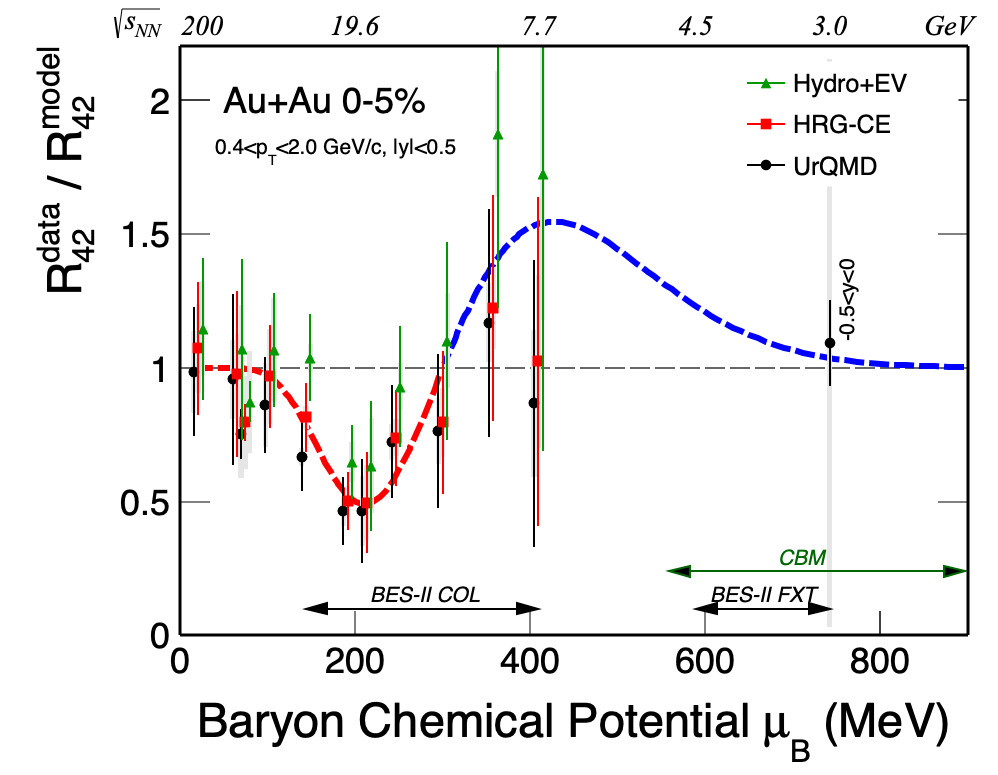
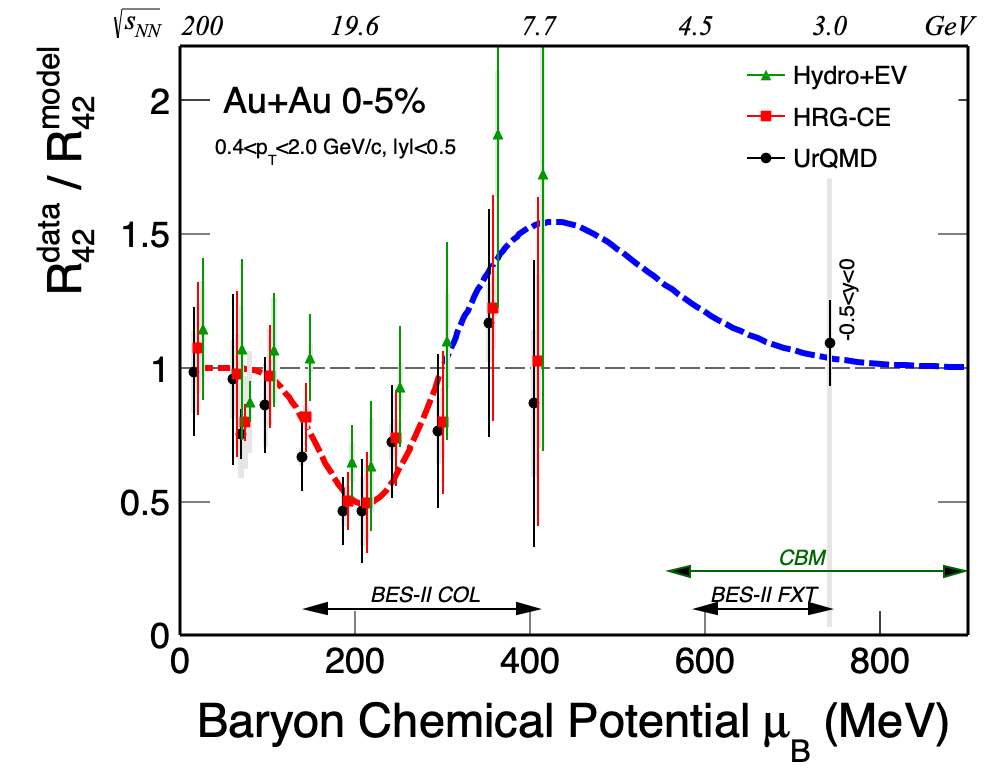
slight update in plotting

Changed region(s): [[0.7455, 0.0619, 0.9319, 0.2477]]

diff --git a/NetProtonMoments/plotRatioOneMuB.C b/NetProtonMoments/plotRatioOneMuB.C
@@ -351,7 +351,7 @@ void plotRatioOneMuB(const int conf = 1)  // conf:  1 - combine model uncertaint
 
   drawText(770, 1.1, "-0.5<y<0", 42, 0.03,90);
   
-  TLegend *leg = new TLegend(0.74, 0.76, 0.96, 0.92);
+  TLegend *leg = new TLegend(0.74, 0.77, 0.96, 0.93);
   leg->SetLineColor(10);
   leg->SetTextSize(0.035);
   for(int im=n_model-1;im>=0;im--) {
